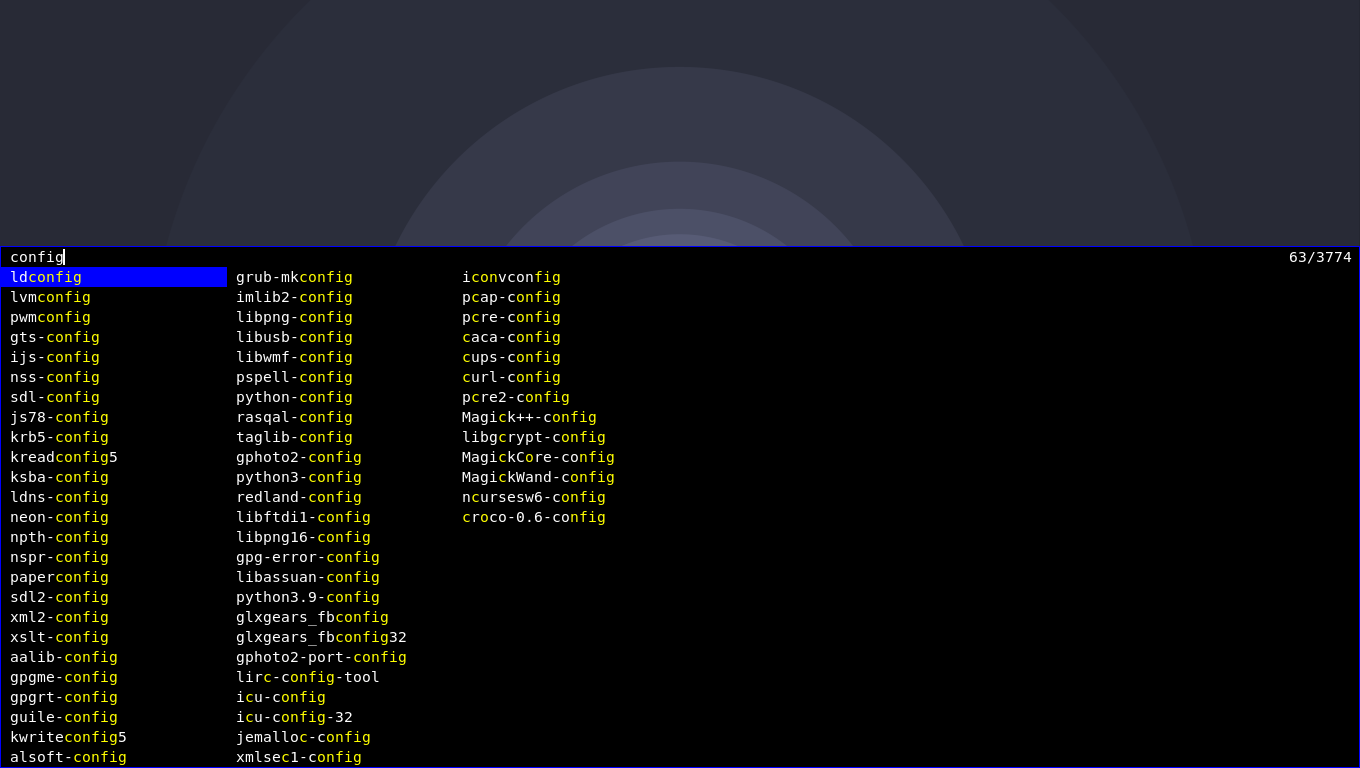
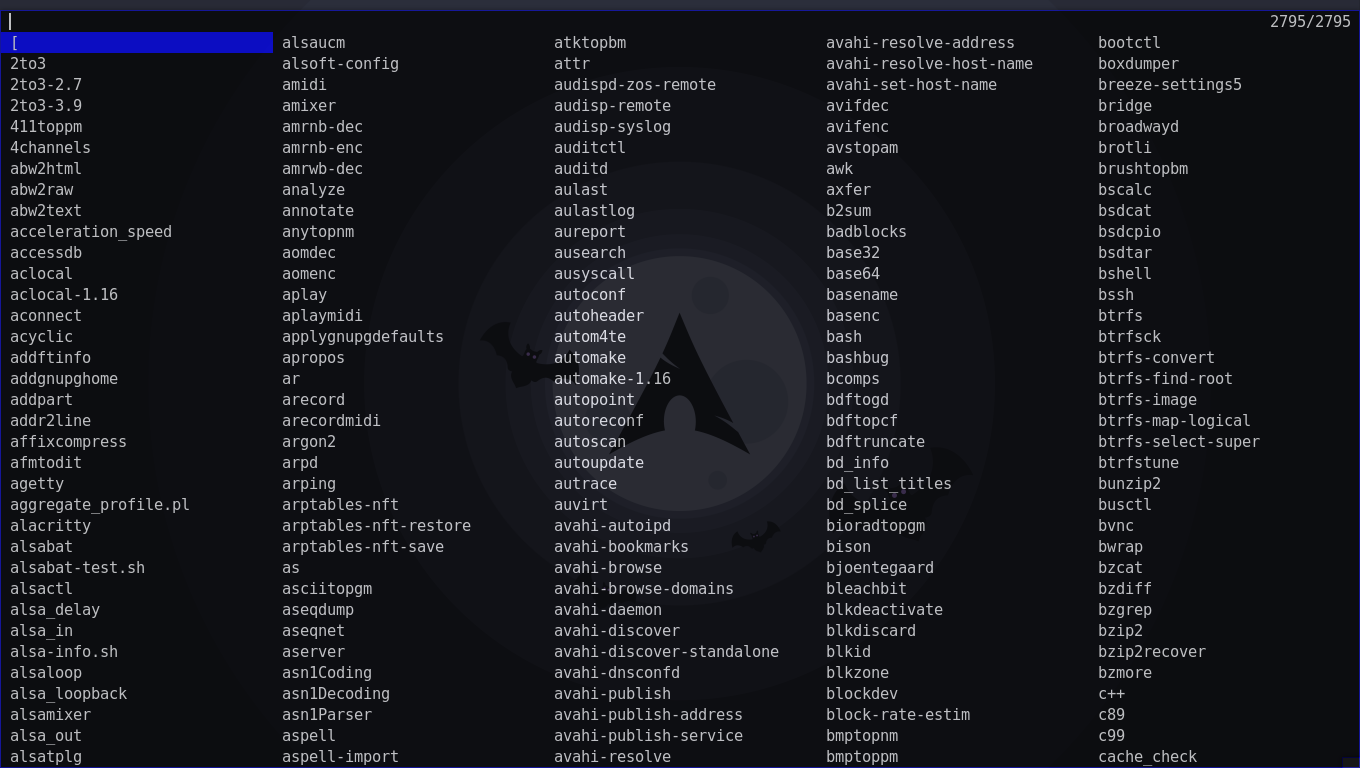
Resultados mais legiveis com 5 colunas e cobrindo toda tela

diff --git a/config.def.h b/config.def.h
@@ -17,8 +17,8 @@ static const char *colors[SchemeLast][2] = {
 	[SchemeOut] = { "#000000", "#FFFFFF" },
 };
 /* -l and -g options; controls number of lines and columns in grid if > 0 */
-static unsigned int lines      = 25;
-static unsigned int columns    = 6;
+static unsigned int lines      = 35;
+static unsigned int columns    = 5;
 
 /*
  * Characters not considered part of a word while deleting words

diff --git a/README.md b/README.md
@@ -1,7 +1,9 @@
 # Minha configuração do dmenu
 
-**Não é possível fazer patch facilmente desta build com o patch xyw, 
+**Não é possível fazer patch facilmente desta build com o patch xyw,
 pois não é possível passar os argumentos das funções sem as refazer do zero**
+
+**Transparencia não inclusa (é por parte do compositor picom)**
 
 ### Patches adicionados
 
@@ -11,7 +13,7 @@ pois não é possível passar os argumentos das funções sem as refazer do zero
 
 - Partes sendo procuradas ficam em amarelo (fuzzyhighlight)
 
-- 6 Colunas (grid)
+- 5 Colunas (grid)
 
 - navegação entre as colunas (gridnav)
 
